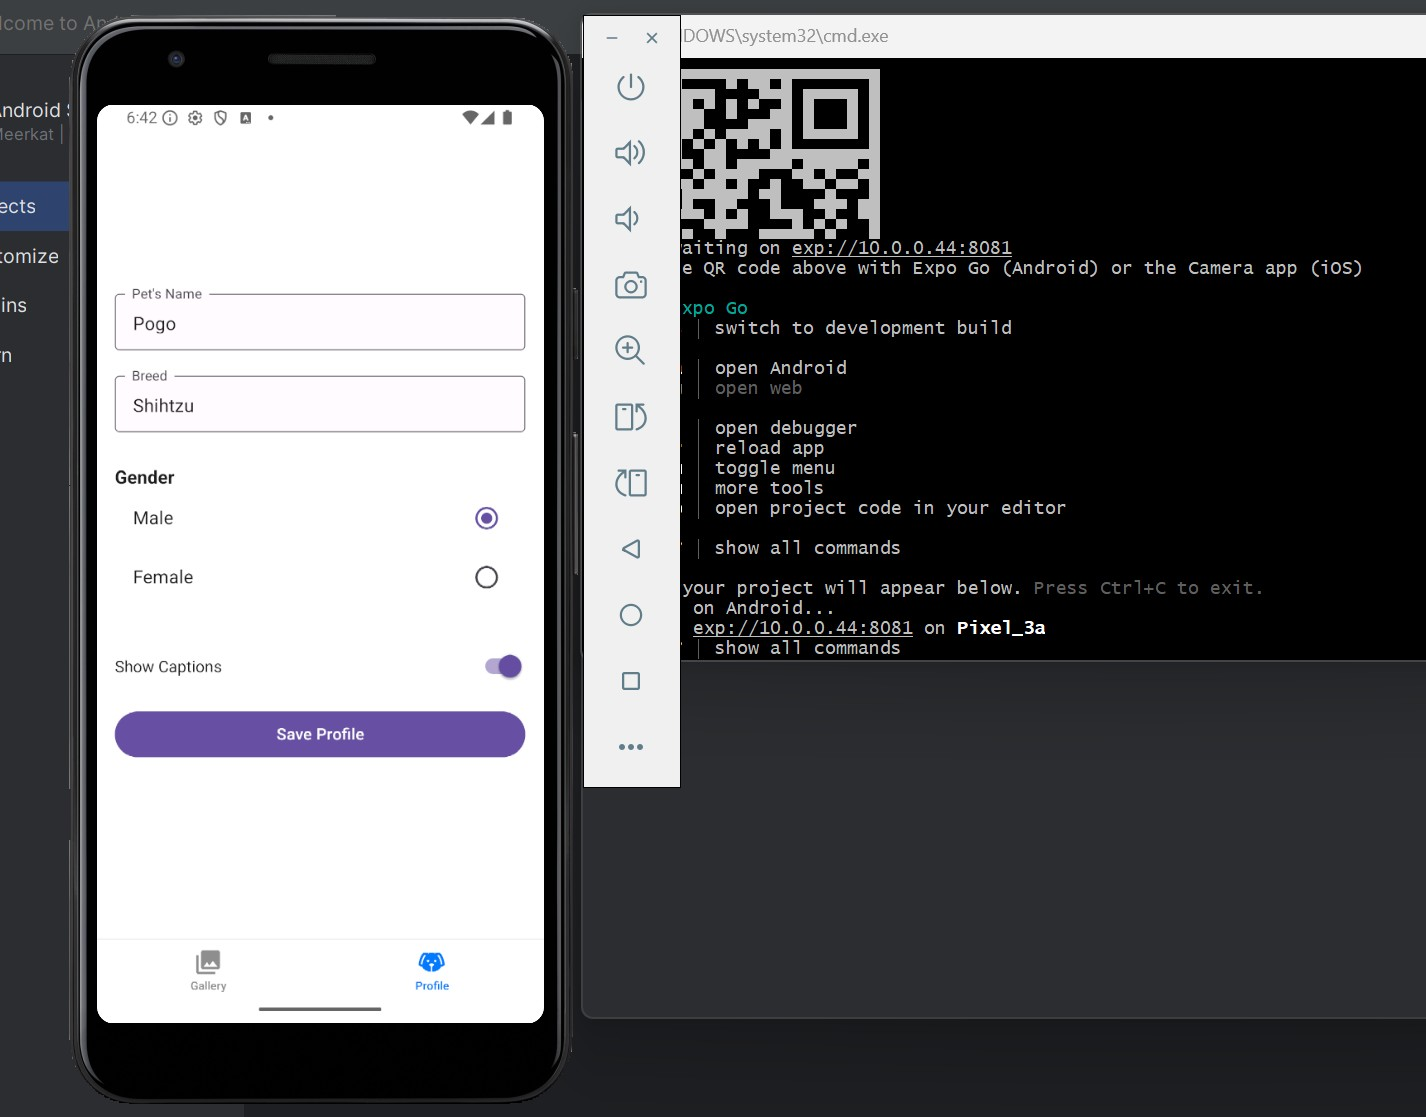
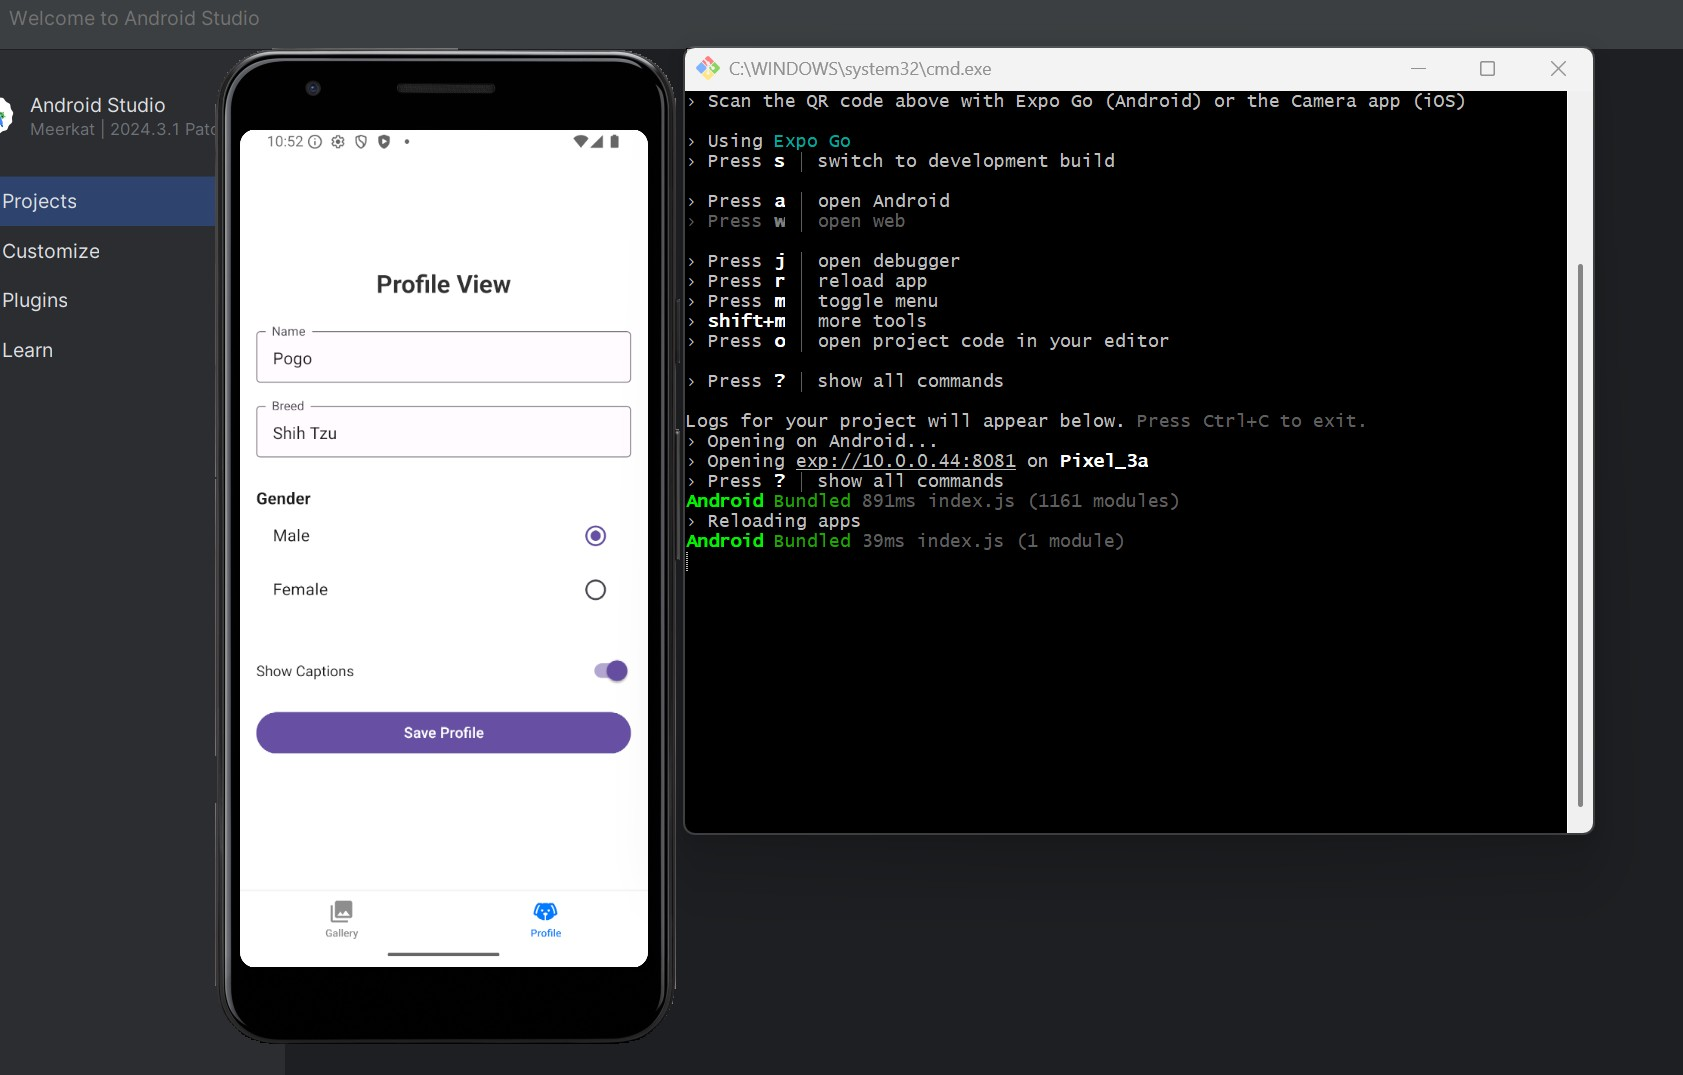
Assignment 3

diff --git a/GalleryApp/screens/ProfileScreen.js b/GalleryApp/screens/ProfileScreen.js
@@ -50,8 +50,9 @@ const ProfileScreen = () => {
 
   return (
     <View style={styles.container}>
+      <Text style={styles.heading}>Profile View</Text>
       <TextInput
-        label="Pet's Name"
+        label="Name"
         value={dogName}
         onChangeText={setDogName}
         style={styles.input}
@@ -109,5 +110,12 @@ const styles = StyleSheet.create({
     justifyContent: 'space-between',
     alignItems: 'center',
     marginVertical: 16,
+  },
+  heading: {
+  fontSize: 24,
+  fontWeight: 'bold',
+  textAlign: 'center',
+  marginBottom: 24,
+  color: '#333',
   },
 });

diff --git a/GalleryApp/README.md b/GalleryApp/README.md
@@ -2,45 +2,45 @@
 
 A React Native mobile app built with Expo.
 
-## Gallery Screen
+# Gallery Screen
 - Displays image cards with captions  
 - Cards highlight in gray on selection
-### Screenshot1 
+# Screenshot1 
 ![Gallery Screen](./screenshot1.jpg)
 
-## Picture View Screen
+# Picture View Screen
 - Opens selected image in full view  
 - Includes caption and a back button
-### Screenshot2 
+# Screenshot2 
 ![Picture View](./screenshot2.jpg)
 
-## Profile Screen
+# Profile Screen
 - Dog’s Name and Breed as Text
 - Gender as Radio button
 - Switch to Show Captions
-### Screenshot3
+# Screenshot3
 ![Profile Screen](./screenshot3.jpg)
 
-## Profile Saved
+# Profile Saved
 - Profile data is stored via `AsyncStorage`  
 - Success message on save
-### Screenshot4 
+# Screenshot4 
 ![Profile Saved](./screenshot4.jpg)
 
-## Error Handling
+# Error
 - Prevents saving when any required field is blank  
-- Displays an error message
-### Screenshot5
+- Displays error message
+# Screenshot5
 ![Error](./screenshot5.jpg)
 
-## Captions Off
+# Captions Off
 - Caption toggle in Profile screen is set to off 
 - Setting is saved and affects gallery dynamically
-### Screenshot6 
+# Screenshot6 
 ![Caption OFF](./screenshot6.jpg)
 
-## Captions Hidden
+# Captions Hidden
 - Cards now display without titles  
 - Reflects the toggle setting correctly
-### Screenshot7 
+# Screenshot7 
 ![Captions Hidden](./screenshot7.jpg)
